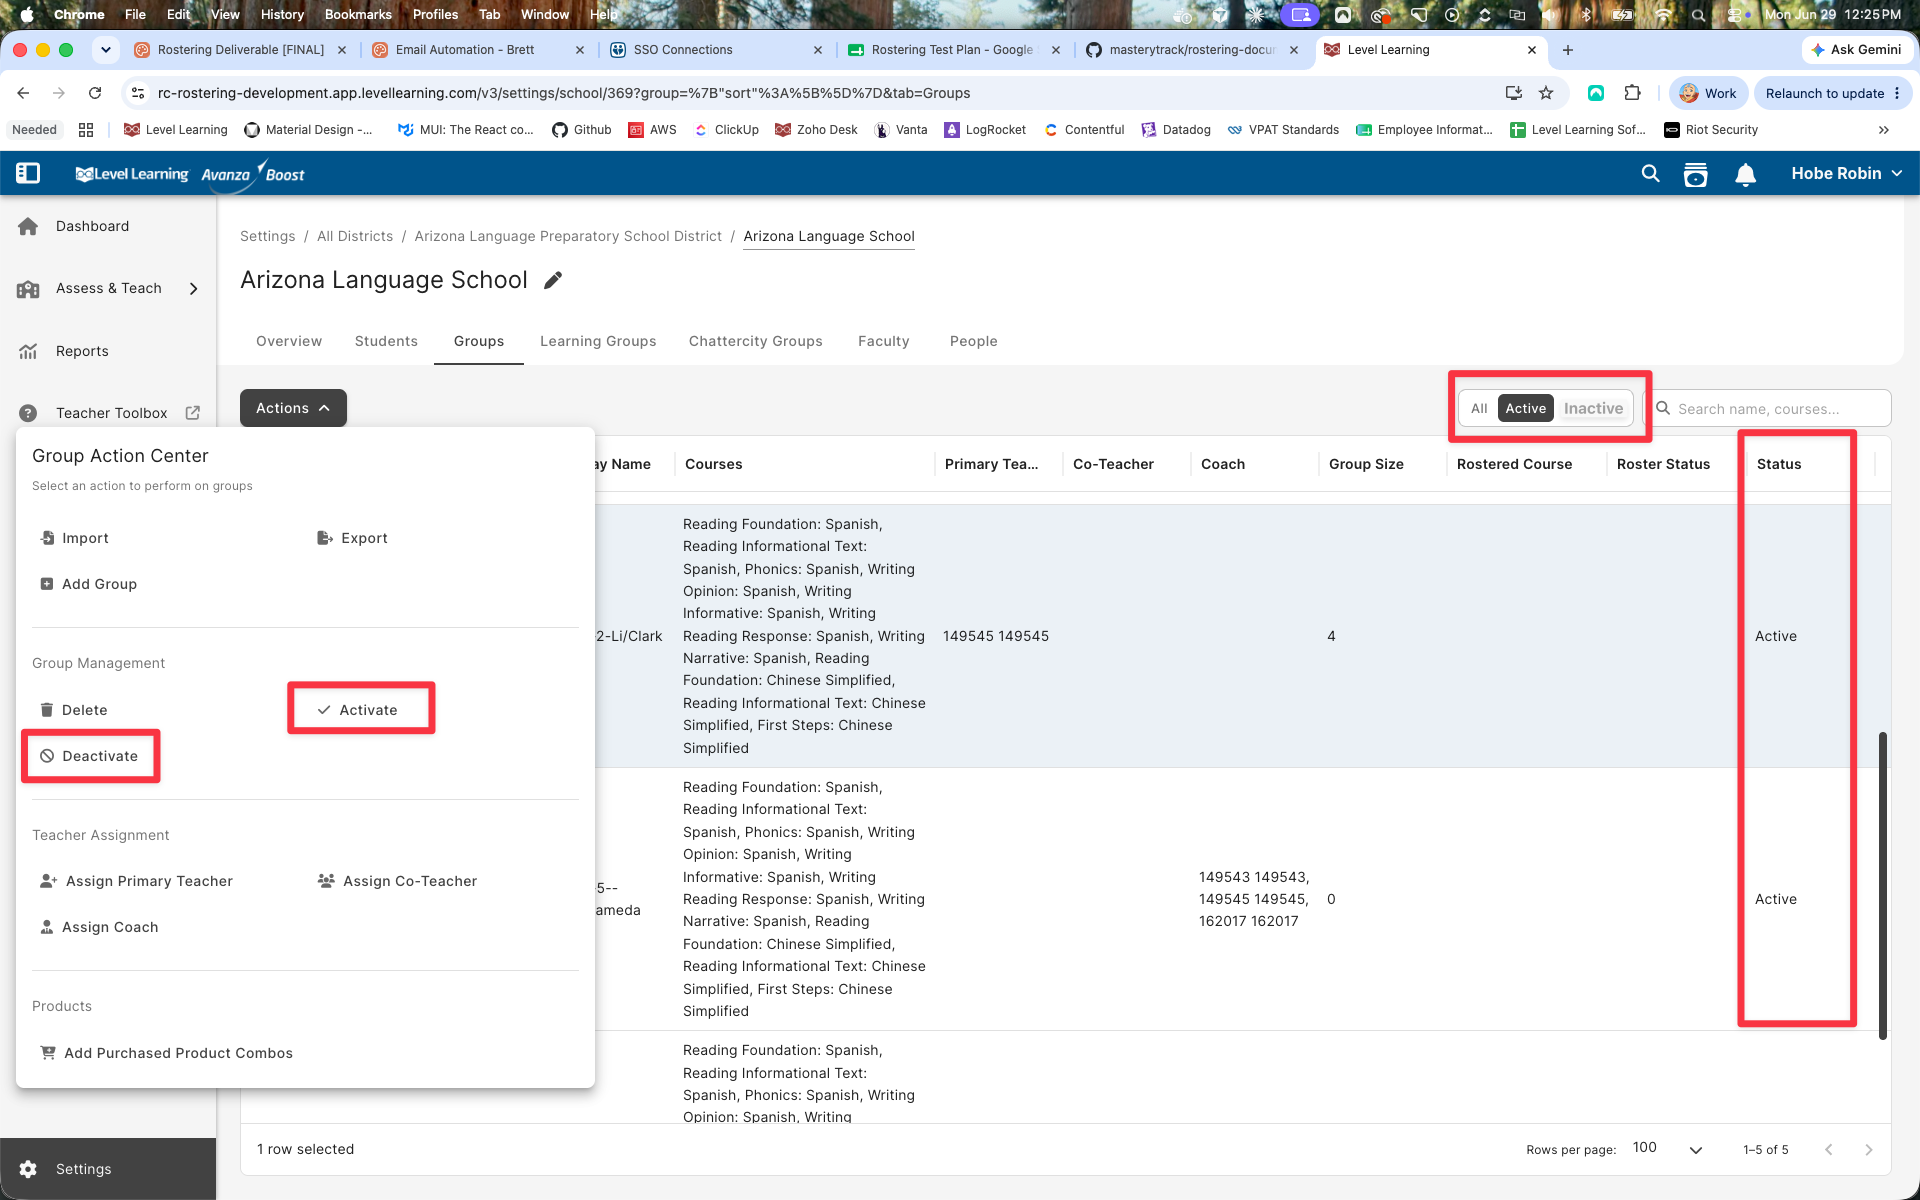
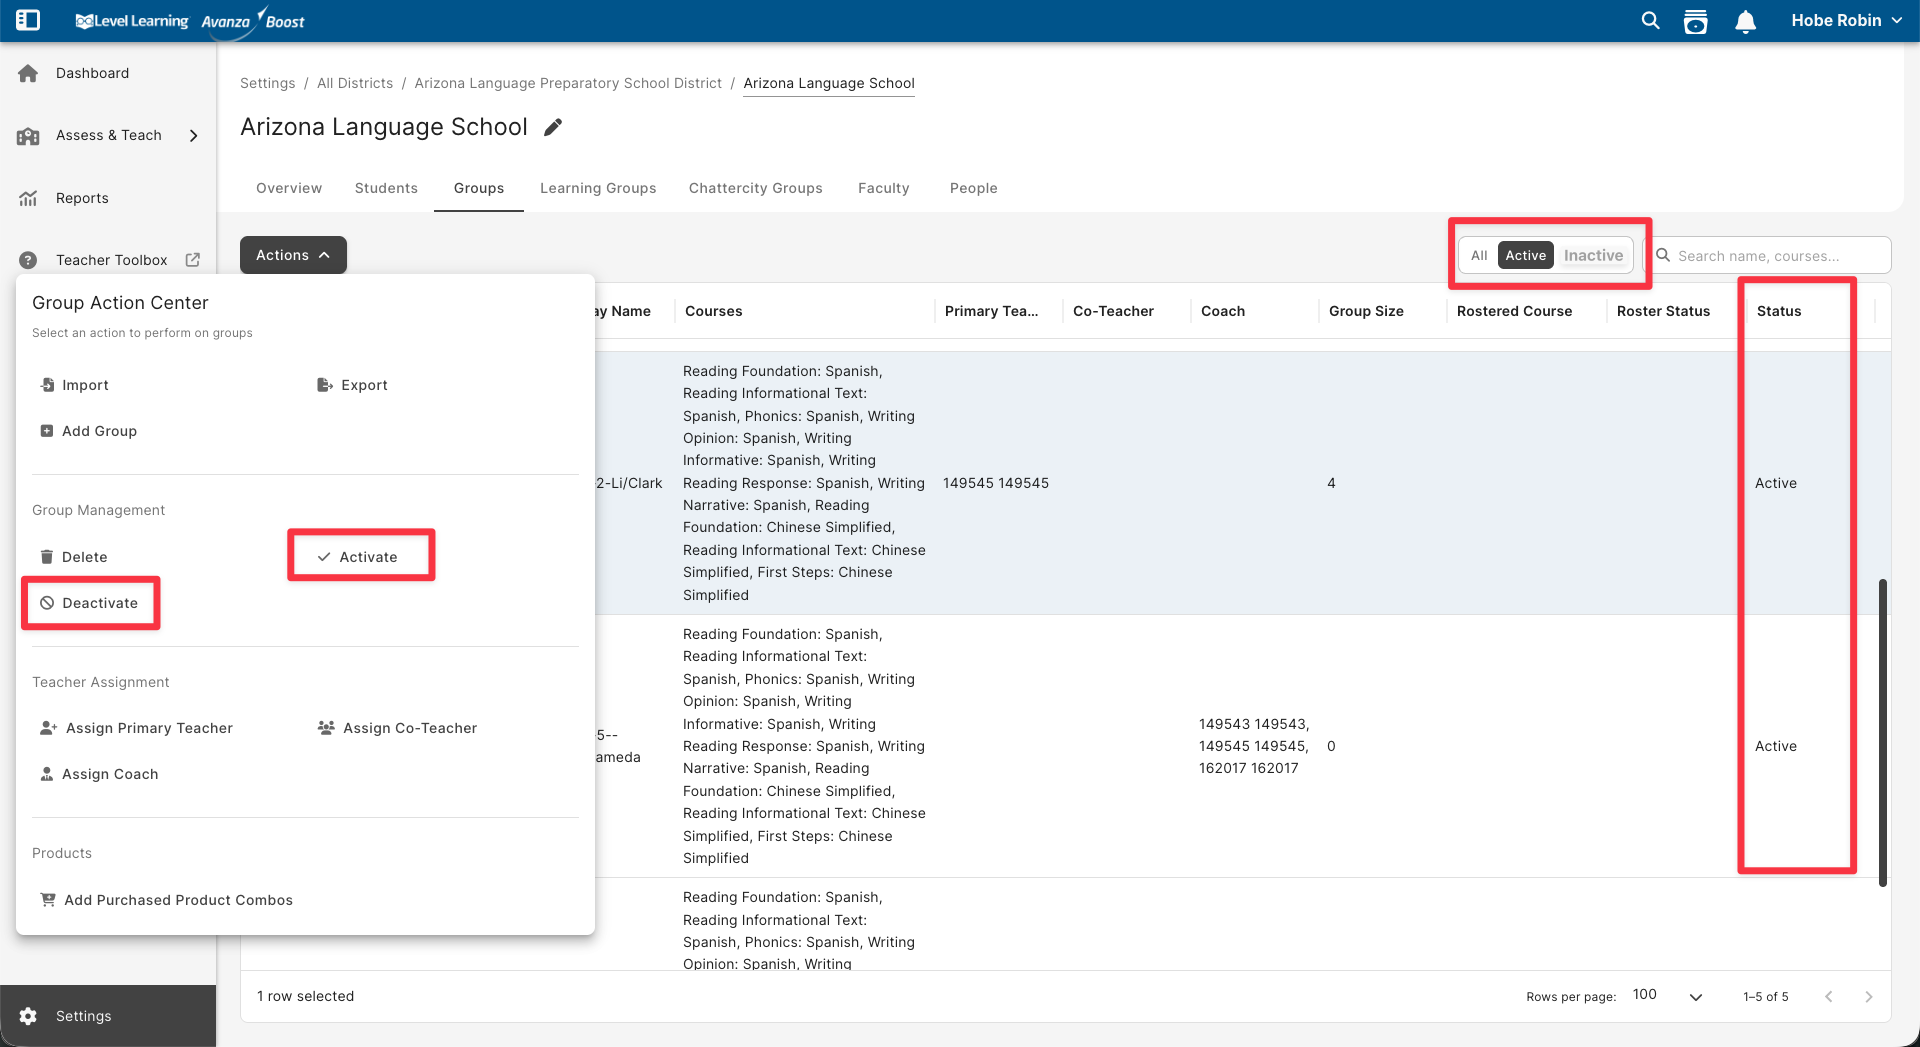
Reorder: Activating becomes Part 1; shift Parts 1-4 down one
Refresh Active/Inactive screenshot. Renumber ids, labels, comment
markers, cross-references, and the workflow chart's jump map.

diff --git a/cs-rostering-guide.html b/cs-rostering-guide.html
@@ -157,129 +157,6 @@
     <!-- PART 1 -->
     <section id="part1">
       <p class="sec-eyebrow">Part 1</p>
-      <h2>Rostering &amp; Connections</h2>
-      <p>The <strong>Rostering</strong> tab lives on the <strong>Settings</strong> page (the top, all-districts layer) and shows every district's status at a glance. Click into a district to open its <strong>Connections</strong> tab, which lives inside that district and holds the connection, its sync history and change log, the <strong>course selection</strong> — where you choose which of that district's courses to sync — and a <strong>rostering problems</strong> panel that flags anything a sync couldn't complete cleanly.</p>
-      <div class="diagram">
-        <pre class="mermaid">
-flowchart LR
-    A["Settings page<br/>(top, all districts)"] --> B["Rostering tab<br/>district status at a glance"]
-    B -->|click a district| C["Connections tab<br/>(within the district)"]
-    C --> D["Connection<br/>Clever / ClassLink"]
-    C --> E["Last sync summary"]
-    C --> F["Synced courses<br/>pick courses to sync"]
-    C --> P["Rostering problems<br/>issues + how to resolve"]
-    C --> G["Sync history<br/>time · trigger · result"]
-    C --> H["Change log<br/>what each sync changed"]
-        </pre>
-      </div>
-      <p>On the <strong>Rostering tab</strong> (Settings page):</p>
-      <ul class="clean">
-        <li><strong>District status</strong> — a quick read on every district's rostering health.</li>
-      </ul>
-      <figure class="shot-img">
-        <img src="img-rostering-tab.png" alt="Rostering tab on the Settings page — the All Districts list showing each district's source, sync status, and last sync." loading="lazy">
-        <figcaption>Rostering tab on the Settings page — district status at a glance</figcaption>
-      </figure>
-      <p>Inside a district, the <strong>Connections tab</strong> shows:</p>
-      <ul class="clean">
-        <li><strong>Connection</strong> — the roster provider (Clever or ClassLink, for now) and whether it's connected.</li>
-        <li><strong>Last sync summary</strong> — a snapshot of the most recent sync.</li>
-        <li><strong>Synced courses</strong> — choose which of the district's courses sync in. This is your first filter (see Part 5).</li>
-        <li><strong>Rostering problems</strong> — anything a sync couldn't complete cleanly. Some are engineering's to fix (a failed or stuck sync, bad data from the provider) — just flag the district to the engineering team. Others are yours (a course not synced, a group with no active paid combo, a missing co-teacher) — resolve those in the UI and re-sync.</li>
-        <li><strong>Sync history</strong> — each sync's time, trigger, and result.</li>
-        <li><strong>Change log</strong> — what each sync changed, record by record.</li>
-      </ul>
-      <figure class="shot-img">
-        <img src="img-connections-tab.png" alt="A district's Connections tab — Connection panel with provider and status, Last sync summary counts, and Synced courses." loading="lazy">
-        <figcaption>A district's Connections tab — Connection, Last sync summary, and Synced courses</figcaption>
-      </figure>
-      <figure class="shot-img">
-        <img src="img-synced-courses.png" alt="The Synced courses dialog — a checklist of provider courses with subject, classes, students, and groups, used to pick which courses sync." loading="lazy">
-        <figcaption>Connections tab — Synced courses</figcaption>
-      </figure>
-      <figure class="shot-img">
-        <img src="img-sync-change-log.png" alt="Connections tab — Sync history listing each sync's time, trigger, result, and record count, with the Change log below showing per-record changes." loading="lazy">
-        <figcaption>Connections tab — Sync history and Change log</figcaption>
-      </figure>
-    </section>
-
-    <!-- PART 2 -->
-    <section id="part2">
-      <p class="sec-eyebrow">Part 2</p>
-      <h2>Group roles</h2>
-      <div class="tablewrap">
-        <table>
-          <thead><tr><th>Role</th><th>How many</th><th>How it's set</th><th>Overwritten by sync?</th></tr></thead>
-          <tbody>
-            <tr><td>Primary teacher</td><td>One</td><td>From roster</td><td class="yes">Yes — roster-driven</td></tr>
-            <tr><td>Co-teacher</td><td>One</td><td>Bulk apply, or on group details</td><td class="no">No — not a roster role</td></tr>
-            <tr><td>Coach</td><td>Many</td><td>Bulk apply, or on group details</td><td class="no">No — not a roster role</td></tr>
-          </tbody>
-        </table>
-      </div>
-      <p>Co-teacher and coach aren't roster roles, so a sync can't overwrite them — set them once and they stick. Assign either by <strong>bulk apply</strong> across groups, or directly on a single group's details.</p>
-      <figure class="shot-img">
-        <img src="img-group-roles.png" alt="A group's Basic Information page with the Faculty section highlighted — Select Faculty, Primary Teacher, Co-Teacher, and Coach fields." loading="lazy">
-        <figcaption>Group details — the Faculty section, with Primary teacher, Co-teacher, and Coach slots</figcaption>
-      </figure>
-      <figure class="shot-img">
-        <img src="img-bulk-apply-roles.png" alt="The Group Action Center panel with the Teacher Assignment actions highlighted — Assign Primary Teacher, Assign Co-Teacher, and Assign Coach — applied across the selected groups." loading="lazy">
-        <figcaption>Group Action Center — bulk Assign Teacher / Co-Teacher / Coach across selected groups</figcaption>
-      </figure>
-    </section>
-
-    <!-- PART 3 -->
-    <section id="part3">
-      <p class="sec-eyebrow">Part 3</p>
-      <h2>Group names &amp; finding the right group</h2>
-      <p><strong>Naming standard:</strong> group names are automatically prefixed with the <strong>primary teacher and co-teacher last names</strong> in parentheses, so you can tell who a group belongs to without opening it.</p>
-      <div class="fmt">
-        <div><span class="k">Format</span>&nbsp;&nbsp;(PrimaryLast/Co-teacherLast) Group name</div>
-        <div><span class="k">Example</span>&nbsp;(Robin/Kazi) 5A Mandarin</div>
-      </div>
-      <div class="note"><strong>Where the names come from:</strong> the prefix is built from the group's <strong>primary teacher</strong> and <strong>co-teacher</strong> slots. If <strong>neither</strong> slot is filled, it falls back to the <strong>first faculty member</strong> in the list instead.</div>
-      <figure class="shot-img">
-        <img src="img-group-name.png" alt="A group's Basic Information page with the group name (256689) LLBH G1D-Chen highlighted at the top, and a breadcrumb showing its district and school." loading="lazy">
-        <figcaption>A group's name identifies the class and teacher; its school and district show in the breadcrumb above</figcaption>
-      </figure>
-      <p><strong>Group picker:</strong> when you choose a group, the picker now shows the <strong>school and district names</strong>. Across an account with more than one school or district, you can see exactly which group you're selecting.</p>
-      <figure class="shot-img">
-        <img src="img-group-picker.png" alt="The Group picker dropdown, with groups grouped under their school and district headings — John Blacow Elementary School, Fremont Unified School District." loading="lazy">
-        <figcaption>The group picker — groups organized under their school and district</figcaption>
-      </figure>
-    </section>
-
-    <!-- PART 4 -->
-    <section id="part4">
-      <p class="sec-eyebrow">Part 4</p>
-      <h2>Active vs. Inactive</h2>
-      <p>The <strong>active/inactive flag</strong> now decides whether a record counts — not whether it exists. Since everything comes in from rostering, flipping records is a core part of the job, and we've made it easy.</p>
-      <ul class="clean">
-        <li>Works across <strong>all layers</strong>: district, school, group, faculty, student.</li>
-        <li><strong>Deactivating cascades down.</strong> Turn off a district and everything inside it — schools, groups, faculty, students — goes inactive too. Same for a school: its groups and people follow.</li>
-        <li><strong>Status column</strong> — every layer's table has a <strong>Status</strong> column, so you can read each record's active/inactive state at a glance.</li>
-        <li><strong>Filter by status</strong> — an <strong>All / Active / Inactive</strong> toggle on each layer lets you show everything or narrow to one; inactive isn't hidden.</li>
-        <li><strong>Bulk apply</strong> active/inactive on any layer — select records, then <strong>Activate</strong> or <strong>Deactivate</strong>.</li>
-        <li><strong>This is how you curate:</strong> deactivate groups, faculty or students you shouldn't be using; the record stays for reference but stops counting.</li>
-      </ul>
-      <div class="rule"><b>Heads up:</b> because deactivation cascades, switching off a district or school takes everything beneath it with it. Deactivate at the layer you actually mean.</div>
-      <figure class="shot-img">
-        <img src="img-active-inactive.png" alt="A school's Groups table with a Status column showing each group's Active state, an All / Active / Inactive filter above the table, and the Group Action Center's Activate and Deactivate bulk controls." loading="lazy">
-        <figcaption>A layer's table — a Status column per row, an All / Active / Inactive filter, and bulk Activate / Deactivate in the Action Center</figcaption>
-      </figure>
-      <h3>Year rollover</h3>
-      <p>At the <strong>start of each new school year</strong> this happens <strong>automatically</strong> — you don't run it. CS gets an <strong>email reminder two weeks before</strong>.</p>
-      <ul class="clean">
-        <li>The <strong>new roster comes in</strong> and creates the new year's groups, associating the relevant students and faculty.</li>
-        <li>Last year's groups are retired: a group with <strong>no students and no product combos</strong> is <strong>deleted</strong>; every other group is set to <strong>Inactive</strong>, keeping its combo and roster for historical reporting and renewals.</li>
-      </ul>
-      <p>Net effect: the old group goes inactive and the new one comes to life. From there, treat the new groups exactly like Part 5 — confirm them, add the paid product combo, set Active.</p>
-      <div class="shot"><span class="lbl">Screenshot</span>An inactive prior-year group retaining its product combo + roster</div>
-    </section>
-
-    <!-- PART 5 -->
-    <section id="part5">
-      <p class="sec-eyebrow">Part 5</p>
       <h2>Activating students &amp; faculty</h2>
 
       <p class="thesis">The roster used to decide who's in. Now an <em>active group with a paid product combo</em> decides.</p>
@@ -337,7 +214,7 @@ flowchart TD
       </div>
 
       <ol class="steps">
-        <li><span class="st">Go to the district's Connections tab, select courses, and sync.</span><p>In the district's <strong>Connections</strong> tab, under <strong>Synced courses</strong> (Part 1), pick which of the district's courses to sync, then run the sync. Everyone in those courses comes in — people <strong>and</strong> their groups — as raw data, <strong>not active yet</strong>. Leave a course unselected (a math-only course, say) and those students never enter the system.</p></li>
+        <li><span class="st">Go to the district's Connections tab, select courses, and sync.</span><p>In the district's <strong>Connections</strong> tab, under <strong>Synced courses</strong> (Part 2), pick which of the district's courses to sync, then run the sync. Everyone in those courses comes in — people <strong>and</strong> their groups — as raw data, <strong>not active yet</strong>. Leave a course unselected (a math-only course, say) and those students never enter the system.</p></li>
         <figure class="shot-img">
           <img src="img-synced-courses-sync.png" alt="The Synced courses dialog with several courses checked, showing each course's subject, classes, students, and groups; the Sync and Full Re-Sync buttons sit to the right." loading="lazy">
           <figcaption>Synced courses — check the courses to bring in, then run Sync</figcaption>
@@ -347,10 +224,133 @@ flowchart TD
         <div class="note"><strong>Merge vs. Replace.</strong> When bulk-applying combos, <strong>Merge</strong> adds the selected combos on top of what each group already has; <strong>Replace</strong> swaps their existing combos for the new selection. The dialog shows how many groups are in scope before you apply.</div>
         <p class="examples"><strong>Example combos</strong> (the full set is in the dialog): Avanza Reading with Phonics; Boost Reading with Phonics, Writing, Oral (ChatterCity); First Step + Online Library (Simplified / Traditional); Level Learning Reading with First Steps, Oral (ChatterCity), and Writing (Traditional).</p>
         <div class="shot"><span class="lbl">Screenshot</span>Group config — paid product combo field + Active toggle</div>
-        <li><span class="st">Deactivate everything that doesn't apply.</span><p>Faculty, students, or groups you shouldn't be using — deactivate them, one at a time or <strong>bulk on any layer</strong> (district, school, group, student). An inactive record stays for reference but stops counting. (See Part 4.)</p></li>
+        <li><span class="st">Deactivate everything that doesn't apply.</span><p>Faculty, students, or groups you shouldn't be using — deactivate them, one at a time or <strong>bulk on any layer</strong> (district, school, group, student). An inactive record stays for reference but stops counting. (See Part 5.)</p></li>
       </ol>
 
       <div class="rule"><b>Rule of thumb:</b> no active group + paid product = the student doesn't count, even if they're in the roster.</div>
+    </section>
+
+    <!-- PART 2 -->
+    <section id="part2">
+      <p class="sec-eyebrow">Part 2</p>
+      <h2>Rostering &amp; Connections</h2>
+      <p>The <strong>Rostering</strong> tab lives on the <strong>Settings</strong> page (the top, all-districts layer) and shows every district's status at a glance. Click into a district to open its <strong>Connections</strong> tab, which lives inside that district and holds the connection, its sync history and change log, the <strong>course selection</strong> — where you choose which of that district's courses to sync — and a <strong>rostering problems</strong> panel that flags anything a sync couldn't complete cleanly.</p>
+      <div class="diagram">
+        <pre class="mermaid">
+flowchart LR
+    A["Settings page<br/>(top, all districts)"] --> B["Rostering tab<br/>district status at a glance"]
+    B -->|click a district| C["Connections tab<br/>(within the district)"]
+    C --> D["Connection<br/>Clever / ClassLink"]
+    C --> E["Last sync summary"]
+    C --> F["Synced courses<br/>pick courses to sync"]
+    C --> P["Rostering problems<br/>issues + how to resolve"]
+    C --> G["Sync history<br/>time · trigger · result"]
+    C --> H["Change log<br/>what each sync changed"]
+        </pre>
+      </div>
+      <p>On the <strong>Rostering tab</strong> (Settings page):</p>
+      <ul class="clean">
+        <li><strong>District status</strong> — a quick read on every district's rostering health.</li>
+      </ul>
+      <figure class="shot-img">
+        <img src="img-rostering-tab.png" alt="Rostering tab on the Settings page — the All Districts list showing each district's source, sync status, and last sync." loading="lazy">
+        <figcaption>Rostering tab on the Settings page — district status at a glance</figcaption>
+      </figure>
+      <p>Inside a district, the <strong>Connections tab</strong> shows:</p>
+      <ul class="clean">
+        <li><strong>Connection</strong> — the roster provider (Clever or ClassLink, for now) and whether it's connected.</li>
+        <li><strong>Last sync summary</strong> — a snapshot of the most recent sync.</li>
+        <li><strong>Synced courses</strong> — choose which of the district's courses sync in. This is your first filter (see Part 1).</li>
+        <li><strong>Rostering problems</strong> — anything a sync couldn't complete cleanly. Some are engineering's to fix (a failed or stuck sync, bad data from the provider) — just flag the district to the engineering team. Others are yours (a course not synced, a group with no active paid combo, a missing co-teacher) — resolve those in the UI and re-sync.</li>
+        <li><strong>Sync history</strong> — each sync's time, trigger, and result.</li>
+        <li><strong>Change log</strong> — what each sync changed, record by record.</li>
+      </ul>
+      <figure class="shot-img">
+        <img src="img-connections-tab.png" alt="A district's Connections tab — Connection panel with provider and status, Last sync summary counts, and Synced courses." loading="lazy">
+        <figcaption>A district's Connections tab — Connection, Last sync summary, and Synced courses</figcaption>
+      </figure>
+      <figure class="shot-img">
+        <img src="img-synced-courses.png" alt="The Synced courses dialog — a checklist of provider courses with subject, classes, students, and groups, used to pick which courses sync." loading="lazy">
+        <figcaption>Connections tab — Synced courses</figcaption>
+      </figure>
+      <figure class="shot-img">
+        <img src="img-sync-change-log.png" alt="Connections tab — Sync history listing each sync's time, trigger, result, and record count, with the Change log below showing per-record changes." loading="lazy">
+        <figcaption>Connections tab — Sync history and Change log</figcaption>
+      </figure>
+    </section>
+
+    <!-- PART 3 -->
+    <section id="part3">
+      <p class="sec-eyebrow">Part 3</p>
+      <h2>Group roles</h2>
+      <div class="tablewrap">
+        <table>
+          <thead><tr><th>Role</th><th>How many</th><th>How it's set</th><th>Overwritten by sync?</th></tr></thead>
+          <tbody>
+            <tr><td>Primary teacher</td><td>One</td><td>From roster</td><td class="yes">Yes — roster-driven</td></tr>
+            <tr><td>Co-teacher</td><td>One</td><td>Bulk apply, or on group details</td><td class="no">No — not a roster role</td></tr>
+            <tr><td>Coach</td><td>Many</td><td>Bulk apply, or on group details</td><td class="no">No — not a roster role</td></tr>
+          </tbody>
+        </table>
+      </div>
+      <p>Co-teacher and coach aren't roster roles, so a sync can't overwrite them — set them once and they stick. Assign either by <strong>bulk apply</strong> across groups, or directly on a single group's details.</p>
+      <figure class="shot-img">
+        <img src="img-group-roles.png" alt="A group's Basic Information page with the Faculty section highlighted — Select Faculty, Primary Teacher, Co-Teacher, and Coach fields." loading="lazy">
+        <figcaption>Group details — the Faculty section, with Primary teacher, Co-teacher, and Coach slots</figcaption>
+      </figure>
+      <figure class="shot-img">
+        <img src="img-bulk-apply-roles.png" alt="The Group Action Center panel with the Teacher Assignment actions highlighted — Assign Primary Teacher, Assign Co-Teacher, and Assign Coach — applied across the selected groups." loading="lazy">
+        <figcaption>Group Action Center — bulk Assign Teacher / Co-Teacher / Coach across selected groups</figcaption>
+      </figure>
+    </section>
+
+    <!-- PART 4 -->
+    <section id="part4">
+      <p class="sec-eyebrow">Part 4</p>
+      <h2>Group names &amp; finding the right group</h2>
+      <p><strong>Naming standard:</strong> group names are automatically prefixed with the <strong>primary teacher and co-teacher last names</strong> in parentheses, so you can tell who a group belongs to without opening it.</p>
+      <div class="fmt">
+        <div><span class="k">Format</span>&nbsp;&nbsp;(PrimaryLast/Co-teacherLast) Group name</div>
+        <div><span class="k">Example</span>&nbsp;(Robin/Kazi) 5A Mandarin</div>
+      </div>
+      <div class="note"><strong>Where the names come from:</strong> the prefix is built from the group's <strong>primary teacher</strong> and <strong>co-teacher</strong> slots. If <strong>neither</strong> slot is filled, it falls back to the <strong>first faculty member</strong> in the list instead.</div>
+      <figure class="shot-img">
+        <img src="img-group-name.png" alt="A group's Basic Information page with the group name (256689) LLBH G1D-Chen highlighted at the top, and a breadcrumb showing its district and school." loading="lazy">
+        <figcaption>A group's name identifies the class and teacher; its school and district show in the breadcrumb above</figcaption>
+      </figure>
+      <p><strong>Group picker:</strong> when you choose a group, the picker now shows the <strong>school and district names</strong>. Across an account with more than one school or district, you can see exactly which group you're selecting.</p>
+      <figure class="shot-img">
+        <img src="img-group-picker.png" alt="The Group picker dropdown, with groups grouped under their school and district headings — John Blacow Elementary School, Fremont Unified School District." loading="lazy">
+        <figcaption>The group picker — groups organized under their school and district</figcaption>
+      </figure>
+    </section>
+
+    <!-- PART 5 -->
+    <section id="part5">
+      <p class="sec-eyebrow">Part 5</p>
+      <h2>Active vs. Inactive</h2>
+      <p>The <strong>active/inactive flag</strong> now decides whether a record counts — not whether it exists. Since everything comes in from rostering, flipping records is a core part of the job, and we've made it easy.</p>
+      <ul class="clean">
+        <li>Works across <strong>all layers</strong>: district, school, group, faculty, student.</li>
+        <li><strong>Deactivating cascades down.</strong> Turn off a district and everything inside it — schools, groups, faculty, students — goes inactive too. Same for a school: its groups and people follow.</li>
+        <li><strong>Status column</strong> — every layer's table has a <strong>Status</strong> column, so you can read each record's active/inactive state at a glance.</li>
+        <li><strong>Filter by status</strong> — an <strong>All / Active / Inactive</strong> toggle on each layer lets you show everything or narrow to one; inactive isn't hidden.</li>
+        <li><strong>Bulk apply</strong> active/inactive on any layer — select records, then <strong>Activate</strong> or <strong>Deactivate</strong>.</li>
+        <li><strong>This is how you curate:</strong> deactivate groups, faculty or students you shouldn't be using; the record stays for reference but stops counting.</li>
+      </ul>
+      <div class="rule"><b>Heads up:</b> because deactivation cascades, switching off a district or school takes everything beneath it with it. Deactivate at the layer you actually mean.</div>
+      <figure class="shot-img">
+        <img src="img-active-inactive.png" alt="A school's Groups table with a Status column showing each group's Active state, an All / Active / Inactive filter above the table, and the Group Action Center's Activate and Deactivate bulk controls." loading="lazy">
+        <figcaption>A layer's table — a Status column per row, an All / Active / Inactive filter, and bulk Activate / Deactivate in the Action Center</figcaption>
+      </figure>
+      <h3>Year rollover</h3>
+      <p>At the <strong>start of each new school year</strong> this happens <strong>automatically</strong> — you don't run it. CS gets an <strong>email reminder two weeks before</strong>.</p>
+      <ul class="clean">
+        <li>The <strong>new roster comes in</strong> and creates the new year's groups, associating the relevant students and faculty.</li>
+        <li>Last year's groups are retired: a group with <strong>no students and no product combos</strong> is <strong>deleted</strong>; every other group is set to <strong>Inactive</strong>, keeping its combo and roster for historical reporting and renewals.</li>
+      </ul>
+      <p>Net effect: the old group goes inactive and the new one comes to life. From there, treat the new groups exactly like Part 1 — confirm them, add the paid product combo, set Active.</p>
+      <div class="shot"><span class="lbl">Screenshot</span>An inactive prior-year group retaining its product combo + roster</div>
     </section>
 
     <!-- PART 6 -->
@@ -418,7 +418,7 @@ flowchart TD
 <script>
   // Each workflow-chart node maps to the section that explains it.
   window.mmJump = function (nodeId) {
-    var map = { A:'part1', B:'part1', C:'part5', D:'part2', E:'part5', F:'part5', X:'part1', G:'part4' };
+    var map = { A:'part2', B:'part2', C:'part1', D:'part3', E:'part1', F:'part1', X:'part2', G:'part5' };
     var el = document.getElementById(map[nodeId]);
     if (el) el.scrollIntoView({ behavior:'smooth', block:'start' });
   };